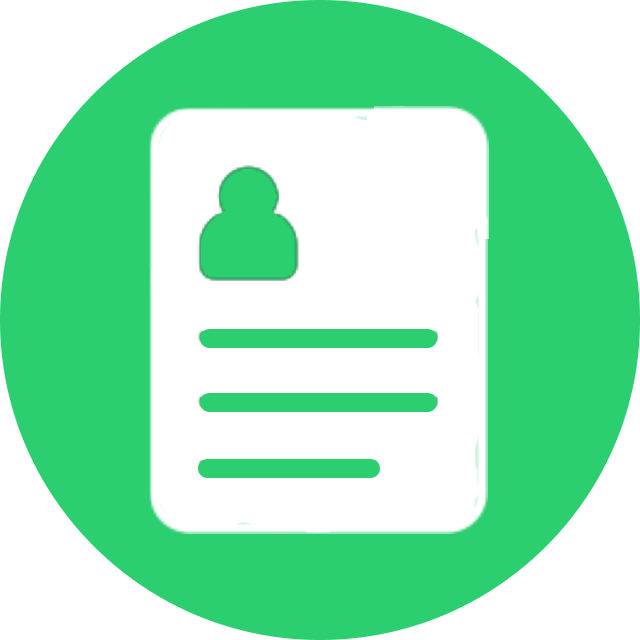
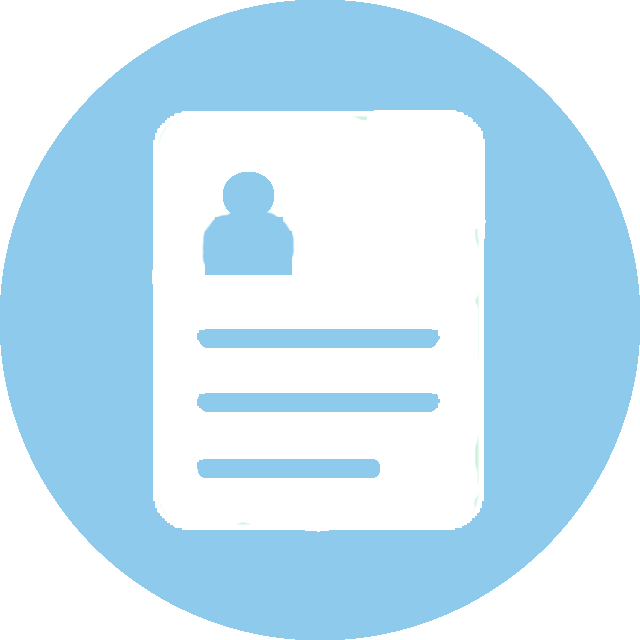
New Color Scheme, Graphic Functions
-Linked pages to graphics
-Graphics work how they should until real ones are made
-Better color scheme
-Last name is a link back to "Home"

diff --git a/mystyle.css b/mystyle.css
@@ -1,6 +1,6 @@
 
 body {
-  background-color: #170a49;
+  background-color: #2b164c;
   font-family: Arial;
 }
 
@@ -12,16 +12,18 @@ body {
   -webkit-background-clip: text;
   -webkit-text-fill-color: transparent; */
   font-family: Optima;
+  font-weight: bold;
   display:flex;
   width: 100%
+
   /* background-color: white; */
 }
 #first{
-  color: #c3a7e4;
+  color: #b983ce;
   padding-right: 0.5%;
 }
 #last{
-  color:#c3a7e4;
+  color:#8ECAEB;
 }
 .flex-container {
   display: flex;
@@ -39,12 +41,13 @@ body {
 
 /* webpage */
 h2 {
-  color: white;
+  color: #F0E6EF;
   text-align: center;
 }
 
-p {
-  font-size: 20px;
+p,h3 {
+  color: #F0E6EF;
+  font-size: 16px;
 }
 
 /* Navbar container */
@@ -58,7 +61,7 @@ p {
 .navbar a {
   float: left;
   font-size: 16px;
-  color: white;
+  color: #F0E6EF;
   text-align: center;
   padding: 14px 16px;
   text-decoration: none;
@@ -109,10 +112,75 @@ p {
 .dropdown:hover .dropdown-content {
   display: block;
 }
+
 .center {
   display: block;
   margin-left: auto;
   margin-right: auto;
+}
+
+/* about me */
+.outline {
+  display: flex;
+  flex-wrap: nowrap;
+  background-color: #2b164c;
+  border: 2px solid #b27092;
+  border-radius: 25px;
+  justify-content: center;
+  width: 75%;
+  margin: auto;
+  padding-bottom: 5px;
+  align-items: baseline;
+  max-height: 75px;
+  overflow: scroll;
+  -ms-overflow-style: none;  /* IE and Edge */
+  scrollbar-width: none;  /* Firefox */
+
+}
+.outline::-webkit-scrollbar {
+  display: none;
+
+}
+#about-me {
+  display: flex;
+  flex-wrap: wrap;
+  justify-content: center;
+  align-items: center;
+}
+
+/* graphics */
+.graphics {
+  display: flex;
+  justify-content: center;
+  padding-top: 5%;
+  padding-bottom: 5%;
+}
+
+#left-pic{
+  transition-duration: 1.5s;
+}
+#left-pic:hover{
+    position:relative;
+    transform: scale(1.5);
+    margin-left: 100px;
+    /* transform: translateX(50px) */
+}
+
+.move-right{
+  transform: translate(350px,0);
+  -webkit-transform: translate(350px,0); /** Chrome & Safari **/
+  -o-transform: translate(350px,0); /** Opera **/
+  -moz-transform: translate(350px,0); /** Firefox **/
+}
+  
+#right-pic{
+  transition-duration: 1.5s;
+}
+#right-pic:hover{
+  position:relative;
+  transform: scale(1.5);
+  margin-right: 100px;
+  /* transform: translateX(-50px) */
 }
 
 /* button */
@@ -125,12 +193,13 @@ p {
   justify-content: center;
 }
 .button {
-  background-color: #170a49; 
-  border: 2px solid #1b82be;
-  color: #1b82be;
+  background-color: #2b164c; 
+  border: 2px solid #b27092;
+  color: #b27092;
   padding: 6px 20px;
   text-align: center;
   text-decoration: none;
+  font-weight: bold;
   display: inline-block;
   font-size: 16px;
   margin:0;
@@ -140,8 +209,10 @@ p {
   cursor: pointer;
 }
 .button:hover {
-  background-color: #1b82be;
-  border: 2px solid #1b82be;
-  color: #170a49; 
+  background-color: #b27092;
+  border: 2px solid #b27092;
+  color: #2b164c; 
+  font-weight: bold;
   /* opacity: 1; */
 }
+

diff --git a/index.html b/index.html
@@ -6,16 +6,17 @@
   <link rel="stylesheet" href="mystyle.css">
 </head>
 
-<body>
+<body overflow-y: auto;>
   <div class="flex-container">
     <div class="name">
       <h1 id="first">NINA</h1>
-      <h1 id="last">NGUYEN
-      </h1>
+      <a href="index.html" style="text-decoration: none;"><h1 id="last">NGUYEN</h1></a>
     </div>
     <div class="flex-icons">
+      <a href="#" class="icon"><img src="Email.png" alt="Email" style="width:32px;height:32px;"></a>
+      <a href="#" class="icon"><img src="Phone.png" alt="Phone" style="width:32px;height:32px;"></a>
       <a href="#" class="icon"><img src="GitHub.png" alt="GitHub" style="width:32px;height:32px;"></a>
-      <a href="#" class="icon"><img src="Resume.png" alt="Resume" style="width:32px;height:32px;"></a>
+      <a href="resume.html" class="icon"><img src="Resume.png" alt="Resume" style="width:32px;height:32px;"></a>
     </div>
   </div>
   <div class="navbar">
@@ -32,13 +33,27 @@
     </div>
       <a href="#contact">Contact</a>
   </div>
-  <h2>Hello World</h2>
-  <p>I'm hosted with GitHub Pages.</p>
-  <div class="parallax"></div>
+  <div style="padding: 10px 0px 10px 0px;">
+  <div class="outline">
+  <div  id="about-me">
+    <div>
+  </div>
+  <div style="padding: 0px 15px 0px 15px;">
+    <p>Lorem ipsum dolor sit amet, in vitae dictas pro, an tantas inimicus corrumpit quo, cum veritus efficiantur an. Persius habemus ne sea, percipit omittantur no usu. Nec utinam salutandi ex. Ex qui dolor similique, vim et cetero alterum. At nec eros justo consulatu.</p>
+  </div>
+  </div>
+</div>
+</div>
+  
 
 
   <!-- images in the middle -->
-
+  <!-- <div style="height:50%;"> -->
+<div class="graphics">
+  <a href="portfolioCS.html" id="left-pic"><img src="FillPict1.png" alt="Portfolio 1" style="width:100px;height:200px;"></a>
+  <a href="portfolioDesign.html" id="right-pic"><img src="FillerPict2.png" alt="Portfolio 1" style="width:100px;height:200px;"></a>
+</div>
+<!-- </div> -->
   <!-- buttons -->
   <div class="button-div">
     <div>

diff --git a/portfolioCS.html b/portfolioCS.html
@@ -5,10 +5,17 @@
   <link rel="stylesheet" href="mystyle.css">
 </head>
 <body>
-  <div class="name">
-    <h1 id="first">NINA</h1>
-    <h1 id="last">NGUYEN
-    </h1>
+  <div class="flex-container">
+    <div class="name">
+      <h1 id="first">NINA</h1>
+      <a href="index.html" style="text-decoration: none;"><h1 id="last">NGUYEN</h1></a>
+    </div>
+    <div class="flex-icons">
+      <a href="#" class="icon"><img src="Email.png" alt="Email" style="width:32px;height:32px;"></a>
+      <a href="#" class="icon"><img src="Phone.png" alt="Phone" style="width:32px;height:32px;"></a>
+      <a href="#" class="icon"><img src="GitHub.png" alt="GitHub" style="width:32px;height:32px;"></a>
+      <a href="#" class="icon"><img src="Resume.png" alt="Resume" style="width:32px;height:32px;"></a>
+    </div>
   </div>
   <div class="navbar">
     <a href="index.html">Home</a>

diff --git a/resume.html b/resume.html
@@ -5,10 +5,17 @@
   <link rel="stylesheet" href="mystyle.css">
 </head>
 <body>
-  <div class="name">
-    <h1 id="first">NINA</h1>
-    <h1 id="last">NGUYEN
-    </h1>
+  <div class="flex-container">
+    <div class="name">
+      <h1 id="first">NINA</h1>
+      <a href="index.html" style="text-decoration: none;"><h1 id="last">NGUYEN</h1></a>
+    </div>
+    <div class="flex-icons">
+      <a href="#" class="icon"><img src="Email.png" alt="Email" style="width:32px;height:32px;"></a>
+      <a href="#" class="icon"><img src="Phone.png" alt="Phone" style="width:32px;height:32px;"></a>
+      <a href="#" class="icon"><img src="GitHub.png" alt="GitHub" style="width:32px;height:32px;"></a>
+      <a href="#" class="icon"><img src="Resume.png" alt="Resume" style="width:32px;height:32px;"></a>
+    </div>
   </div>
   <div class="navbar">
     <a href="index.html">Home</a>

diff --git a/portfolioDesign.html b/portfolioDesign.html
@@ -7,10 +7,17 @@
 </head>
 
 <body>
-  <div class="name">
-    <h1 id="first">NINA</h1>
-    <h1 id="last">NGUYEN
-    </h1>
+  <div class="flex-container">
+    <div class="name">
+      <h1 id="first">NINA</h1>
+      <a href="index.html" style="text-decoration: none;"><h1 id="last">NGUYEN</h1></a>
+    </div>
+    <div class="flex-icons">
+      <a href="#" class="icon"><img src="Email.png" alt="Email" style="width:32px;height:32px;"></a>
+      <a href="#" class="icon"><img src="Phone.png" alt="Phone" style="width:32px;height:32px;"></a>
+      <a href="#" class="icon"><img src="GitHub.png" alt="GitHub" style="width:32px;height:32px;"></a>
+      <a href="#" class="icon"><img src="Resume.png" alt="Resume" style="width:32px;height:32px;"></a>
+    </div>
   </div>
   <div class="navbar">
     <a href="index.html">Home</a>

diff --git a/portfolio.html b/portfolio.html
@@ -5,7 +5,18 @@
   <link rel="stylesheet" href="mystyle.css">
 </head>
 <body>
-
+  <div class="flex-container">
+    <div class="name">
+      <h1 id="first">NINA</h1>
+      <a href="index.html" style="text-decoration: none;"><h1 id="last">NGUYEN</h1></a>
+    </div>
+    <div class="flex-icons">
+      <a href="#" class="icon"><img src="Email.png" alt="Email" style="width:32px;height:32px;"></a>
+      <a href="#" class="icon"><img src="Phone.png" alt="Phone" style="width:32px;height:32px;"></a>
+      <a href="#" class="icon"><img src="GitHub.png" alt="GitHub" style="width:32px;height:32px;"></a>
+      <a href="#" class="icon"><img src="Resume.png" alt="Resume" style="width:32px;height:32px;"></a>
+    </div>
+  </div>
 
 </body>
 </html>
